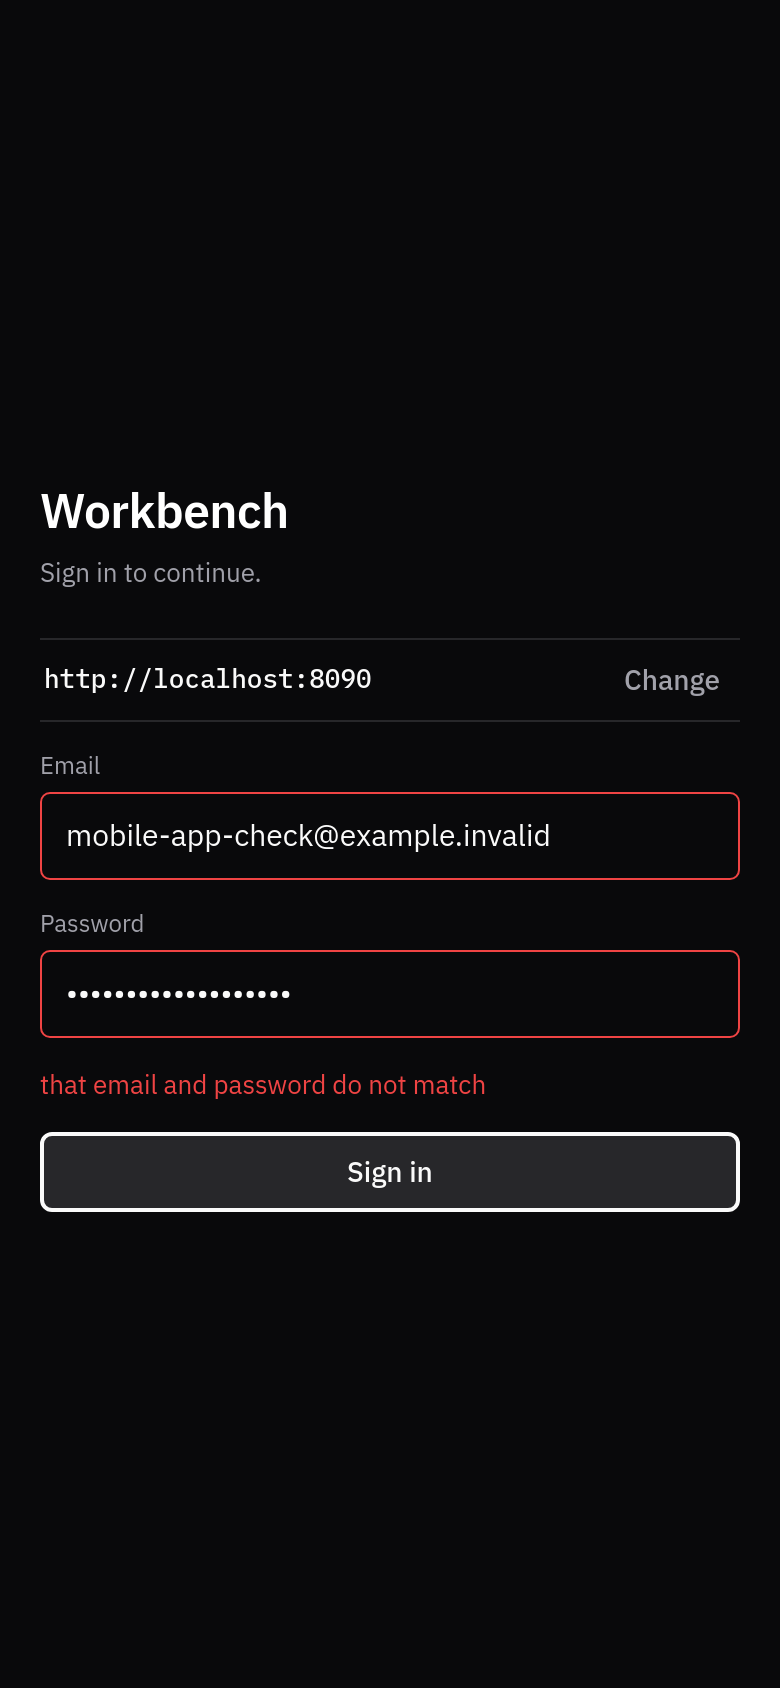
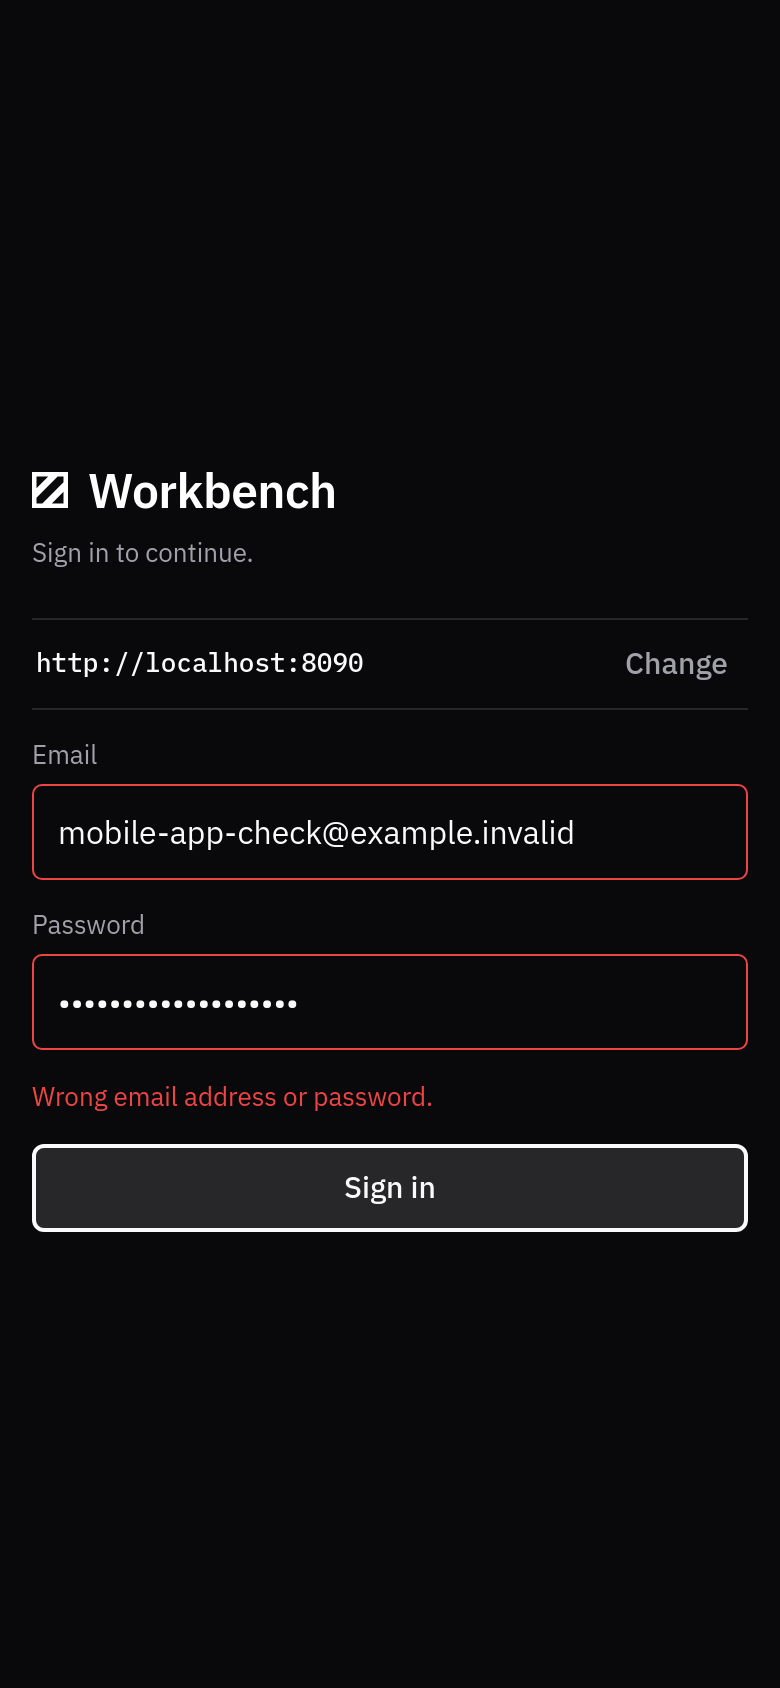
Take the sign-in, typing, keyboard and scrolled-up screenshots against the made-up server.
MOCK_SIGNIN=1 starts the made-up server signed out, so the server and
sign-in screens no longer need a real server. The keyboard shot makes the
window as much shorter as a phone keyboard and checks the composer stays on
screen.

Claude-Session: https://claude.ai/code/session_0179K8nSMsnXRpdhdvLgXKQJ

diff --git a/scripts/shots.js b/scripts/shots.js
@@ -2,6 +2,7 @@
  * Screenshots of the web build at phone size, in headless Chrome.
  * Needs two dev proxies running (scripts/dev-proxy.mjs):
  *   LIVE: TARGET=<a real Workbench server> PORT=8090   (server and sign-in screens; one wrong-password try)
+ *         or MOCK=1 MOCK_SIGNIN=1 PORT=8090            (the same against the made-up server)
  *   MOCK: MOCK=1 MOCK_HOLD=1 PORT=8091                 (everything after sign-in, made-up data)
  * Run with scripts/shots.sh. Writes docs/screenshots/*.png (OUT).
  * The sign-in check uses a made-up address and password: never real ones.
@@ -62,6 +63,8 @@ async function connect(page, base, address) {
     await shot(page, '01-server');
     await go();
     await page.waitForSelector(tid('login-email'), { timeout: 20000 });
+    await sleep(400);
+    await shot(page, '10-login');
     await page.type(tid('login-email'), 'mobile-app-check@example.invalid');
     await page.type(tid('login-password'), 'not-a-real-password');
     await page.click(tid('login-submit'));
@@ -97,6 +100,43 @@ async function connect(page, base, address) {
   await page.click(tid('send'));
   await sleep(2500); // the made-up answer stops half-way and stays open
   await shot(page, '05-chat');
+
+  // Typing a long line: the box grows to six lines, then scrolls inside.
+  await page.type(
+    tid('composer-input'),
+    'The bead heats up at the burst current. Next steps:\n1. scope TP7 with the radio sending\n2. swap in the 1 A bead\n3. add 47 uF next to the module\n4. measure the dip again\n5. compare with the old board\n6. write it down in the log',
+  );
+  await sleep(300);
+  await shot(page, '11-chat-typing');
+
+  // The keyboard, as the web can show it: the window gets shorter by its
+  // height (336 px, a phone keyboard). The composer and the newest lines
+  // must stay in view above it.
+  await page.setViewport({ width: 390, height: 844 - 336, deviceScaleFactor: 2, isMobile: true, hasTouch: true });
+  await sleep(600);
+  const fit = await page.evaluate(() => {
+    const box = document.querySelector('[data-testid="composer-input"]').getBoundingClientRect();
+    return { composerBottom: Math.round(box.bottom), viewport: window.innerHeight };
+  });
+  console.log('KEYBOARD', JSON.stringify(fit));
+  await shot(page, '12-chat-keyboard');
+  await page.setViewport({ width: 390, height: 844, deviceScaleFactor: 2, isMobile: true, hasTouch: true });
+  await page.$eval(tid('composer-input'), (e) => {
+    const set = Object.getOwnPropertyDescriptor(window.HTMLTextAreaElement.prototype, 'value').set;
+    set.call(e, '');
+    e.dispatchEvent(new Event('input', { bubbles: true }));
+  });
+  await sleep(300);
+
+  // Scrolled up to read: the list stays put and offers the way back.
+  await page.$eval(tid('chat-list'), (e) => {
+    e.scrollTop = 0;
+    e.dispatchEvent(new Event('scroll'));
+  });
+  await page.waitForSelector(tid('jump-to-latest'), { timeout: 5000 });
+  await shot(page, '13-chat-scrolled-up');
+  await page.click(tid('jump-to-latest'));
+  await sleep(600);
 
   await page.click(tid('voice-start'));
   await page.waitForSelector(tid('recording-bar'), { timeout: 10000 });

diff --git a/README.md b/README.md
@@ -10,6 +10,7 @@ Then you sign in with the same e-mail address and password as on the web.
 
 <p>
   <img src="docs/screenshots/01-server.png" width="200" alt="Choosing a server">
+  <img src="docs/screenshots/10-login.png" width="200" alt="Signing in">
   <img src="docs/screenshots/03-login-error.png" width="200" alt="Signing in, with the server's error">
   <img src="docs/screenshots/04-chats.png" width="200" alt="Conversation list">
   <img src="docs/screenshots/05-chat.png" width="200" alt="A conversation with an answer being written">
@@ -19,6 +20,11 @@ Then you sign in with the same e-mail address and password as on the web.
   <img src="docs/screenshots/07-voice-review.png" width="200" alt="Reviewing a voice note before sending">
   <img src="docs/screenshots/08-model-picker.png" width="200" alt="Choosing the model">
   <img src="docs/screenshots/09-account.png" width="200" alt="Account, voice language, sign out">
+</p>
+<p>
+  <img src="docs/screenshots/11-chat-typing.png" width="200" alt="A long message being typed: the box grows to six lines">
+  <img src="docs/screenshots/12-chat-keyboard.png" width="200" alt="With the keyboard open: the composer and the newest lines stay above it">
+  <img src="docs/screenshots/13-chat-scrolled-up.png" width="200" alt="Scrolled up while an answer is written, with the way back to the latest">
 </p>
 
 ## What it does
@@ -33,7 +39,11 @@ Then you sign in with the same e-mail address and password as on the web.
   it with Markdown (headings, lists, code, links), send a line and watch the
   answer being written, stop it, start a new conversation, choose the model.
   A conversation in which someone else's answer is being written is followed
-  live.
+  live. The list follows the newest line and the answer as it is written,
+  unless you scroll up to read; then **Latest** brings you back.
+- **Typing**: the box sits right above the keyboard, the conversation shrinks
+  above it with the newest lines in view, and the box grows with what you
+  write up to six lines (16 px text), then scrolls inside.
 - **Voice**: the composer's Voice button records, the server transcribes
   (`POST /api/voice/transcribe`), and the text lands in the box to read and
   correct - nothing is sent by itself. Voice note (in a conversation's top
@@ -86,7 +96,8 @@ TARGET=https://workbench.example.com node scripts/dev-proxy.mjs
 
 `MOCK=1 node scripts/dev-proxy.mjs` answers from a made-up server instead
 (`scripts/mock-api.mjs`, no account needed); add `MOCK_HOLD=1` to leave
-answers half-written.
+answers half-written, or `MOCK_SIGNIN=1` to start signed out (the password
+`mock` signs in, any other is refused).
 
 ### Android APK (no Android Studio)
 
@@ -108,8 +119,10 @@ npm run check      # all three
 
 Screenshots in `docs/screenshots` are made with `scripts/shots.sh` (headless
 Chrome in Docker at 390 x 844, against the made-up server; with
-`TARGET=https://your.server` it also takes the server and sign-in screens
-against that server, whose own wrong-password error is shown). App icons are
+`TARGET=https://your.server` the server and sign-in screens are taken against
+that server, whose own wrong-password error is shown). The keyboard shot
+makes the window 336 px shorter, as a phone keyboard does, and checks the
+composer is still on screen. App icons are
 drawn by `scripts/make-icons.js` from the web app's section mark.
 
 ### How it talks to the server
@@ -152,9 +165,28 @@ The theme is the web app's Spartan Dark token for token
 (`src/theme/tokens.ts`, from redline-studio's `frontend/src/styles.css`), set
 in IBM Plex Sans and Plex Mono like the web app. Flat surfaces with 1 px
 hairlines; a chosen option is shown by weight and ink, not a fill; no coloured
-stripes, no emoji; recording is a small red dot and a timer. Screens and
-sheets appear without animation, so nothing moves for longer than 200 ms and
-a reduced-motion setting has nothing to turn off.
+stripes, no emoji; recording is a small red dot and a timer. The wordmark is
+the web app's section mark (a vector, `components/Mark.tsx`) beside the name.
+
+Every screen keeps a 16 px side gutter and the safe-area insets (status bar,
+cutout, gesture bar); controls are at least 44 px tall. Motion is short and
+moves only opacity and transform: the native splash (the mark on the theme's
+ground) fades into the first screen, a conversation slides in 12 px from the
+right in 220 ms, sheets rise in 180 ms - and with the system's reduced-motion
+setting on, none of it moves (`components/Appear.tsx`).
+
+### Keyboard
+
+The app draws edge to edge (Android 15 requires it), and then Android's
+`adjustResize` no longer shrinks the window for the keyboard.
+[react-native-keyboard-controller](https://github.com/kirillzyusko/react-native-keyboard-controller)
+reports the keyboard frame by frame, and `components/KeyboardSpacer.tsx`
+takes that room at the bottom of the chat and of the sheets, so the list
+shrinks and the composer sits on the keyboard. The server and sign-in screens
+scroll the focused field clear of it (`KeyboardAwareScrollView`). The
+manifest keeps `windowSoftInputMode="adjustResize"`
+(`android.softwareKeyboardLayoutMode: "resize"` in app.json), which the
+library expects.
 
 ## Licence
 
